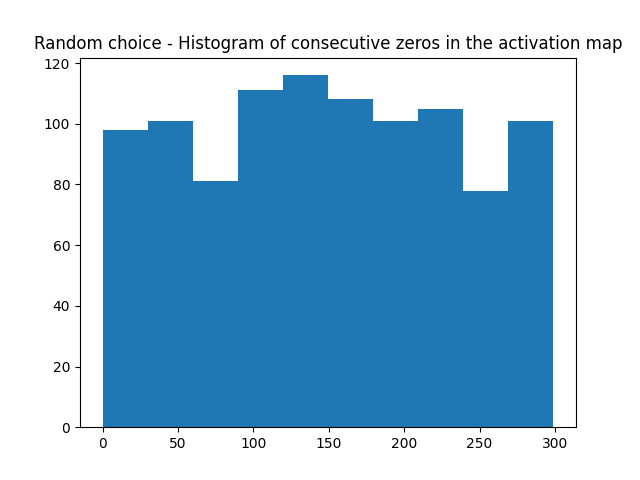
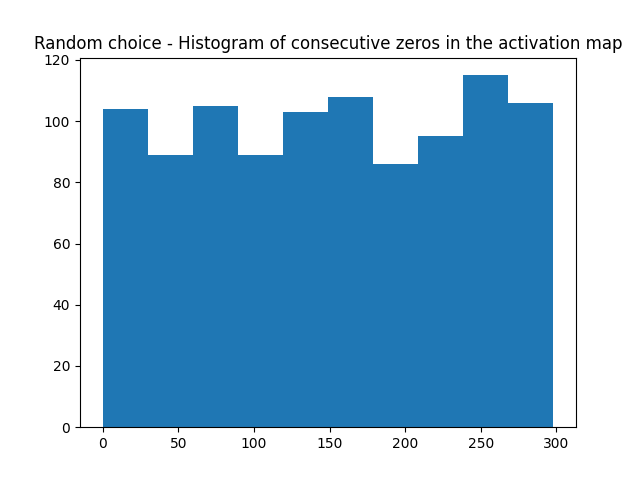
Made reward as 0 for states which are not of interest

diff --git a/RLE_verif_with_RL/RLE_compressor_probability/test_1state_probab_RL_rle_compression.py b/RLE_verif_with_RL/RLE_compressor_probability/test_1state_probab_RL_rle_compression.py
@@ -222,28 +222,28 @@ def run_test(dut):
     plt.xlabel("Actions")
     plt.ylabel("Q-value")
     # plt.show()
-    plt.savefig('./Q_function_0010' + suffix + '.png')
+    plt.savefig('./Q_function_R=0_0100' + suffix + '.png')
     plt.close()
 
     plt.plot(np.log(loss_list))
     plt.title("Training log loss")
     plt.grid()
     # plt.show()
-    plt.savefig('./log_loss_plot_0010' + suffix + '.png')
+    plt.savefig('./log_loss_plot_R=0_0100' + suffix + '.png')
     plt.close()
 
     plt.plot(loss_list)
     plt.title("Training loss")
     plt.grid()
     # plt.show()
-    plt.savefig('./loss_plot_0010' + suffix + '.png')
+    plt.savefig('./loss_plot_R=0_0100' + suffix + '.png')
     plt.close()
 
     # plot results
     plt.hist(chosen_actions)
     plt.tight_layout()
-    plt.title("Stochastic input using RL- Histogram of Pr(0) in the activation map\n" + "Reward scheme: 0010")
-    plt.savefig('./hist_of_actions_0010' + suffix + '.png')
+    plt.title("Stochastic input using RL- Histogram of Pr(0) in the activation map\n" + "Reward scheme: 0100")
+    plt.savefig('./hist_of_actions_R=0_0100' + suffix + '.png')
     plt.close()
 
     state_list = []
@@ -260,8 +260,8 @@ def run_test(dut):
     plt.xticks(rotation = 90)
     plt.tight_layout()
     # plt.hist(state_list)
-    plt.title("Stochastic input using RL - Histogram of covered states\n" + "Reward scheme: 0010")
-    plt.savefig('./hist_of_coverage_0010' + suffix + '.png')
+    plt.title("Stochastic input using RL - Histogram of covered states\n" + "Reward scheme: 0100")
+    plt.savefig('./hist_of_coverage_R=0_0100' + suffix + '.png')
     plt.close()
 
 def get_action(curr_state, net, action_tensor, steps_done):
@@ -290,35 +290,35 @@ def get_reward_based_on_states_visited(coverage):
     reward = 0
     for visited_state in coverage:
         if(visited_state == [0, 0, 0, 0]):
-            reward += 1
+            reward += 0
         if(visited_state == [0, 0, 0, 1]):
-            reward += 1
+            reward += 0
         if(visited_state == [0, 0, 1, 0]):
-            reward += 10
+            reward += 0
         if(visited_state == [0, 0, 1, 1]):
-            reward += 1
+            reward += 0
         if(visited_state == [0, 1, 0, 0]):
-            reward += 1
+            reward += 10
         if(visited_state == [0, 1, 0, 1]):
-            reward += 1
+            reward += 0
         if(visited_state == [0, 1, 1, 0]):
-            reward += 1
+            reward += 0
         if(visited_state == [0, 1, 1, 1]):
-            reward += 1
+            reward += 0
         if(visited_state == [1, 0, 0, 0]):
-            reward += 1
+            reward += 0
         if(visited_state == [1, 0, 0, 1]):
-            reward += 1
+            reward += 0
         if(visited_state == [1, 0, 1, 0]):
-            reward += 1
+            reward += 0
         if(visited_state == [1, 0, 1, 1]):
-            reward += 1
+            reward += 0
         if(visited_state == [1, 1, 0, 0]):
-            reward += 1
+            reward += 0
         if(visited_state == [1, 1, 0, 1]):
-            reward += 1
+            reward += 0
         if(visited_state == [1, 1, 1, 0]):
-            reward += 1
+            reward += 0
         if(visited_state == [1, 1, 1, 1]):
-            reward += 1
+            reward += 0
     return reward

diff --git a/RLE_verif_with_RL/RLE_compressor_1state/test_rle_compression_cocotb.py b/RLE_verif_with_RL/RLE_compressor_1state/test_rle_compression_cocotb.py
@@ -296,8 +296,8 @@ def start_compression(tb,word_width,count_width):
 def random_input_gen(tb):
     ma_start_compression_word_width=0
     ma_start_compression_count_Width=0
-    # ma_get_input_val=random.randint(0,0xFFFFFFFF)
-    ma_get_input_val=1
+    ma_get_input_val=random.randint(1,0xFFFFFFFF)
+    # ma_get_input_val=1
     EN_ma_start_compression=0
     EN_ma_get_input=1
     EN_ma_end_compression=0

diff --git a/RLE_verif_with_RL/RLE_compressor_1state_transitions/test_rle_compression_cocotb.py b/RLE_verif_with_RL/RLE_compressor_1state_transitions/test_rle_compression_cocotb.py
@@ -296,8 +296,8 @@ def start_compression(tb,word_width,count_width):
 def random_input_gen(tb):
     ma_start_compression_word_width=0
     ma_start_compression_count_Width=0
-    # ma_get_input_val=random.randint(0,0xFFFFFFFF)
-    ma_get_input_val=1
+    ma_get_input_val=random.randint(1,0xFFFFFFFF)
+    # ma_get_input_val=1
     EN_ma_start_compression=0
     EN_ma_get_input=1
     EN_ma_end_compression=0

diff --git a/RLE_verif_with_RL/RLE_compressor_random/test_rle_compression_cocotb.py b/RLE_verif_with_RL/RLE_compressor_random/test_rle_compression_cocotb.py
@@ -296,7 +296,7 @@ def start_compression(tb,word_width,count_width):
 def random_input_gen(tb):
     ma_start_compression_word_width=0
     ma_start_compression_count_Width=0
-    ma_get_input_val=random.randint(0,0xFFFFFFFF)
+    ma_get_input_val=random.randint(1,0xFFFFFFFF)
     EN_ma_start_compression=0
     EN_ma_get_input=1
     EN_ma_end_compression=0

diff --git a/RLE_verif_with_RL/RLE_compressor_random_transitions/test_rle_compression_cocotb.py b/RLE_verif_with_RL/RLE_compressor_random_transitions/test_rle_compression_cocotb.py
@@ -296,7 +296,7 @@ def start_compression(tb,word_width,count_width):
 def random_input_gen(tb):
     ma_start_compression_word_width=0
     ma_start_compression_count_Width=0
-    ma_get_input_val=random.randint(0,0xFFFFFFFF)
+    ma_get_input_val=random.randint(1,0xFFFFFFFF)
     EN_ma_start_compression=0
     EN_ma_get_input=1
     EN_ma_end_compression=0
